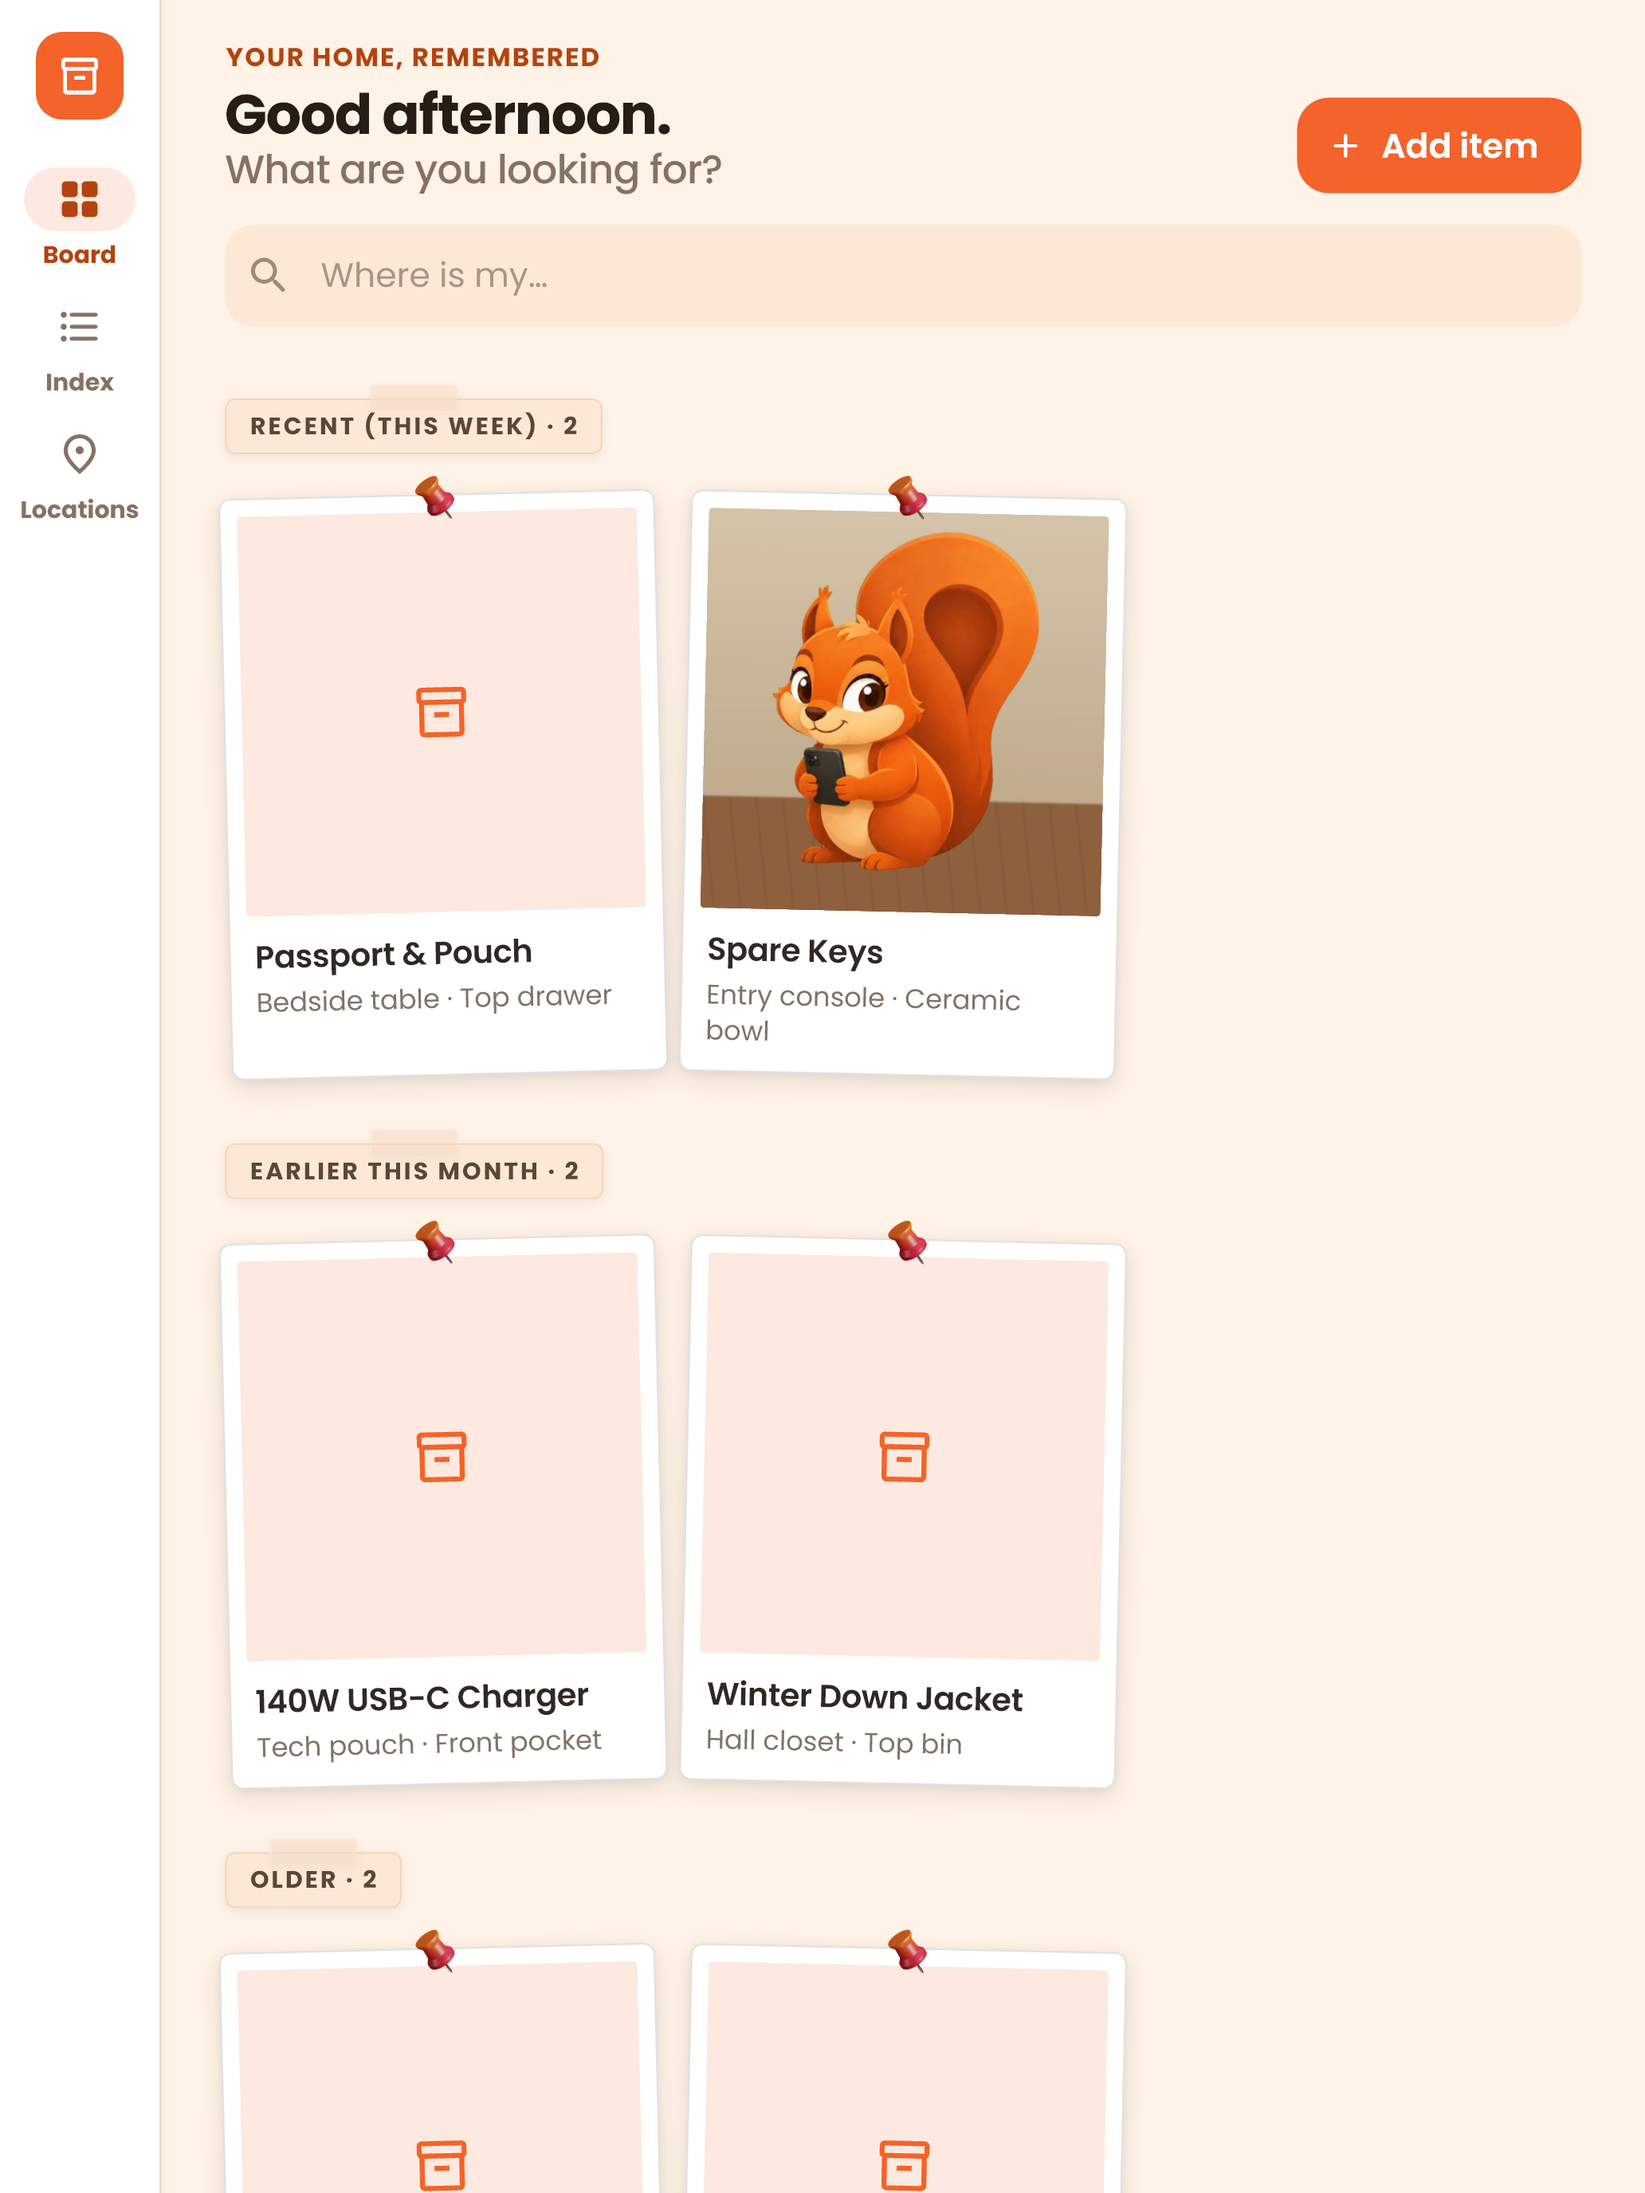
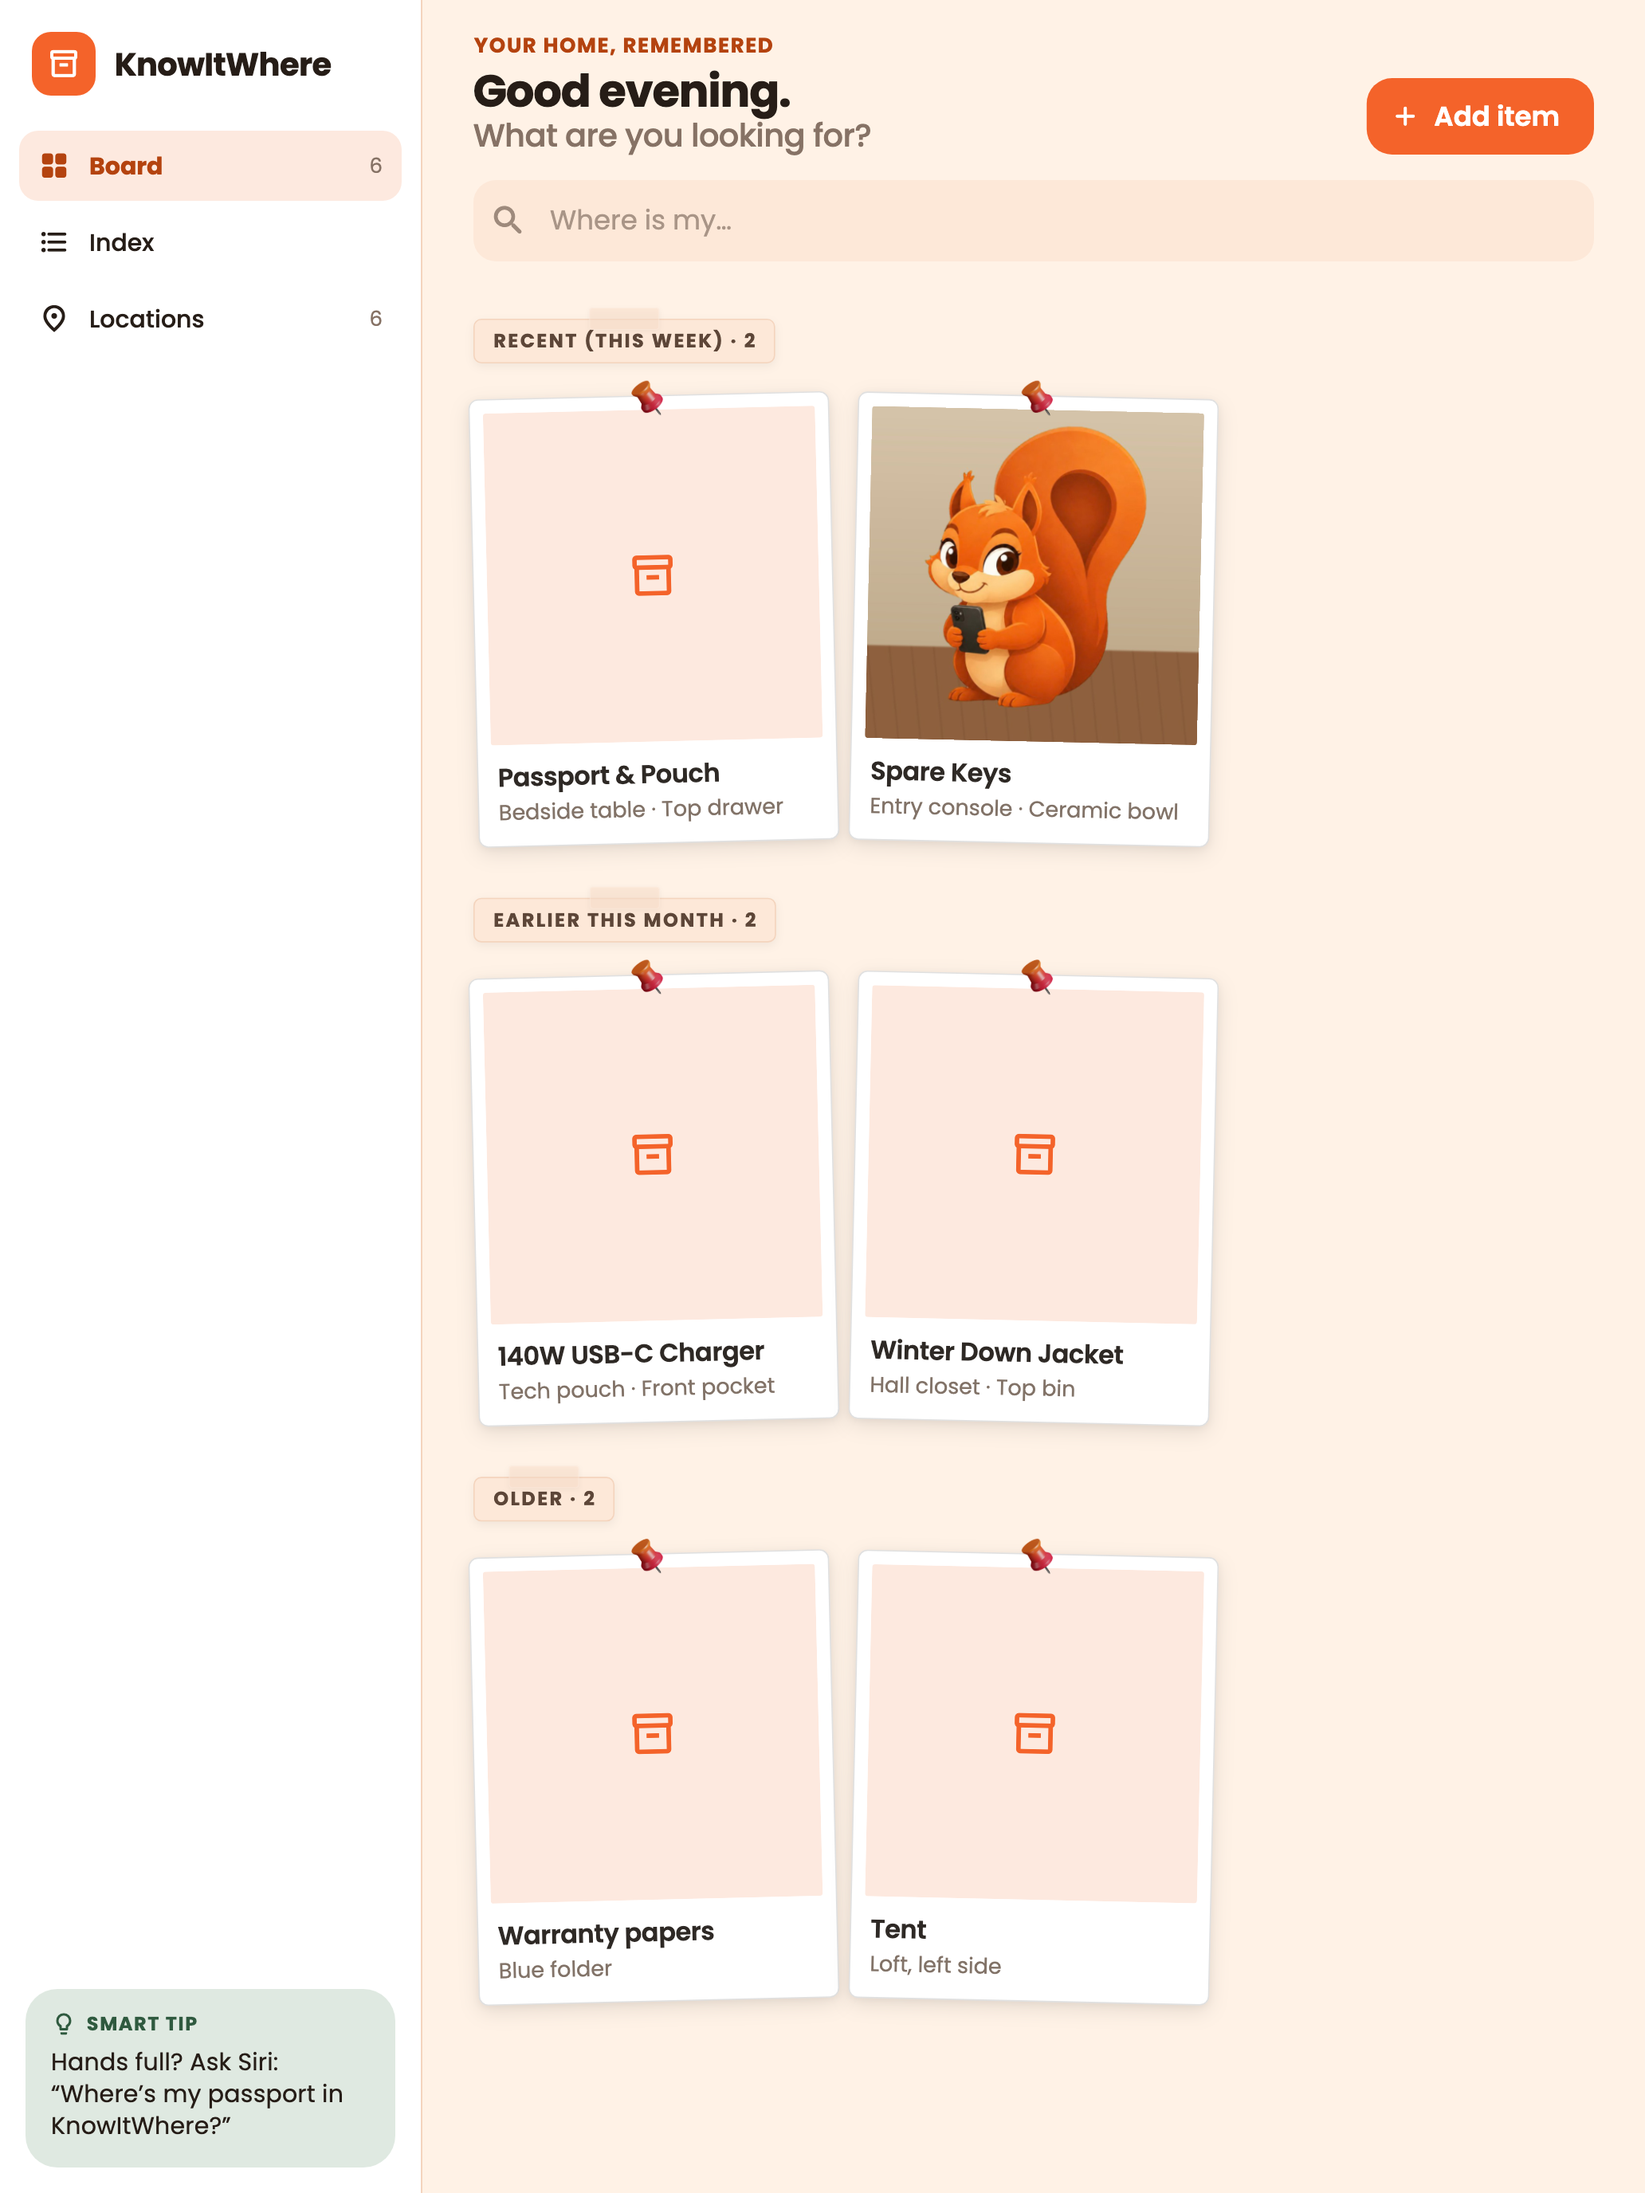
App Store-ready screenshots: no alpha, true iPad 13" portrait
App Store Connect rejects screenshots with an alpha channel, and Flutter
goldens are RGBA, so flatten_for_app_store.swift writes opaque copies to
docs/app-store-screenshots. iPad portrait now renders at the iPad Pro 13"
point size (1032×1376 @2x), which shows the expanded layout like the device
does, instead of a 2.5x scale that showed the rail.

diff --git a/tool/screenshots/flatten_for_app_store.swift b/tool/screenshots/flatten_for_app_store.swift
@@ -1,0 +1,43 @@
+// Copies screenshots into an App Store-ready folder: same pixels, but with
+// the alpha channel removed. App Store Connect rejects screenshots that have
+// one, and Flutter's golden files are always RGBA.
+//
+// Usage: swift tool/screenshots/flatten_for_app_store.swift <in.png>... <out-dir>
+import CoreGraphics
+import Foundation
+import ImageIO
+import UniformTypeIdentifiers
+
+let args = Array(CommandLine.arguments.dropFirst())
+guard args.count >= 2 else {
+  FileHandle.standardError.write("usage: flatten_for_app_store.swift <in.png>... <out-dir>\n".data(using: .utf8)!)
+  exit(2)
+}
+let outDir = URL(fileURLWithPath: args.last!, isDirectory: true)
+try FileManager.default.createDirectory(at: outDir, withIntermediateDirectories: true)
+
+for path in args.dropLast() {
+  let input = URL(fileURLWithPath: path)
+  guard let source = CGImageSourceCreateWithURL(input as CFURL, nil),
+    let image = CGImageSourceCreateImageAtIndex(source, 0, nil),
+    let context = CGContext(
+      data: nil, width: image.width, height: image.height, bitsPerComponent: 8,
+      bytesPerRow: 0, space: CGColorSpace(name: CGColorSpace.sRGB)!,
+      bitmapInfo: CGImageAlphaInfo.noneSkipLast.rawValue)
+  else {
+    FileHandle.standardError.write("cannot read \(path)\n".data(using: .utf8)!)
+    exit(1)
+  }
+  // Anything transparent lands on white rather than black.
+  context.setFillColor(CGColor(red: 1, green: 1, blue: 1, alpha: 1))
+  context.fill(CGRect(x: 0, y: 0, width: image.width, height: image.height))
+  context.draw(image, in: CGRect(x: 0, y: 0, width: image.width, height: image.height))
+
+  let output = outDir.appendingPathComponent(input.lastPathComponent)
+  guard let flat = context.makeImage(),
+    let destination = CGImageDestinationCreateWithURL(output as CFURL, UTType.png.identifier as CFString, 1, nil)
+  else { exit(1) }
+  CGImageDestinationAddImage(destination, flat, nil)
+  guard CGImageDestinationFinalize(destination) else { exit(1) }
+  print("\(output.path)  \(image.width)×\(image.height)")
+}

diff --git a/tool/screenshots/screenshots_test.dart b/tool/screenshots/screenshots_test.dart
@@ -169,12 +169,12 @@ void main() {
     await shot(tester, '9_add');
   });
 
-  // iPad Pro 13" (2752×2064 landscape = expanded; 2064×2752 portrait = medium).
-  // Landscape uses native 2x (1376×1032 pt) so width >= 900 triggers the sidebar
-  // and inspector. Portrait uses 2.5x (825.6×1100.8 pt) so width < 900 retains
-  // the tablet medium tier (navigation rail and stacked detail page).
+  // iPad Pro 13" at its real point size, @2x: 1376×1032 landscape → 2752×2064,
+  // 1032×1376 portrait → 2064×2752 (the App Store 13" sizes). Both are wider
+  // than 900 pt, so both show the expanded layout (sidebar + inspector), just
+  // as the device does. The rail layout only appears in narrower windows.
   const ipadLandscape = Size(1376, 1032);
-  const ipadPortrait = Size(825.6, 1100.8);
+  const ipadPortrait = Size(1032, 1376);
 
   screenTest('ipad onboarding', (tester) async {
     await pump(tester, onboarding: true, size: ipadLandscape, pixelRatio: 2.0);
@@ -206,7 +206,7 @@ void main() {
 
   screenTest('ipad portrait: board and detail', (tester) async {
     await seed(tester);
-    await pump(tester, size: ipadPortrait, pixelRatio: 2.5);
+    await pump(tester, size: ipadPortrait, pixelRatio: 2.0);
     await shot(tester, 'ipad_6_portrait_board');
 
     await tester.tap(find.text('Spare Keys'));

diff --git a/docs/app-store.md b/docs/app-store.md
@@ -57,7 +57,14 @@ where did i put,storage tracker,item finder,inventory,declutter,find my stuff,or
 4. "Right on your home screen" (medium widget)
 5. "Private. On your phone only." (detail screen)
 
-Draft renders of the in-app screens are in `docs/screens/`.
+Upload-ready renders are in `docs/app-store-screenshots/`: iPhone 6.9" at 1320×2868, and iPad 13" at 2752×2064 (landscape) or 2064×2752 (portrait), as RGB PNGs with no alpha channel (App Store Connect rejects screenshots with one). Siri and the widget are system UI, so take those two on a device. To regenerate after a UI change:
+
+```bash
+flutter test tool/screenshots/screenshots_test.dart --update-goldens   # docs/screens (RGBA previews)
+swift tool/screenshots/flatten_for_app_store.swift docs/screens/*.png docs/app-store-screenshots
+```
+
+The greeting on the home screen follows the time of day ("Good afternoon"), so render at a sensible hour.
 
 ## App Privacy (6.2)
 
